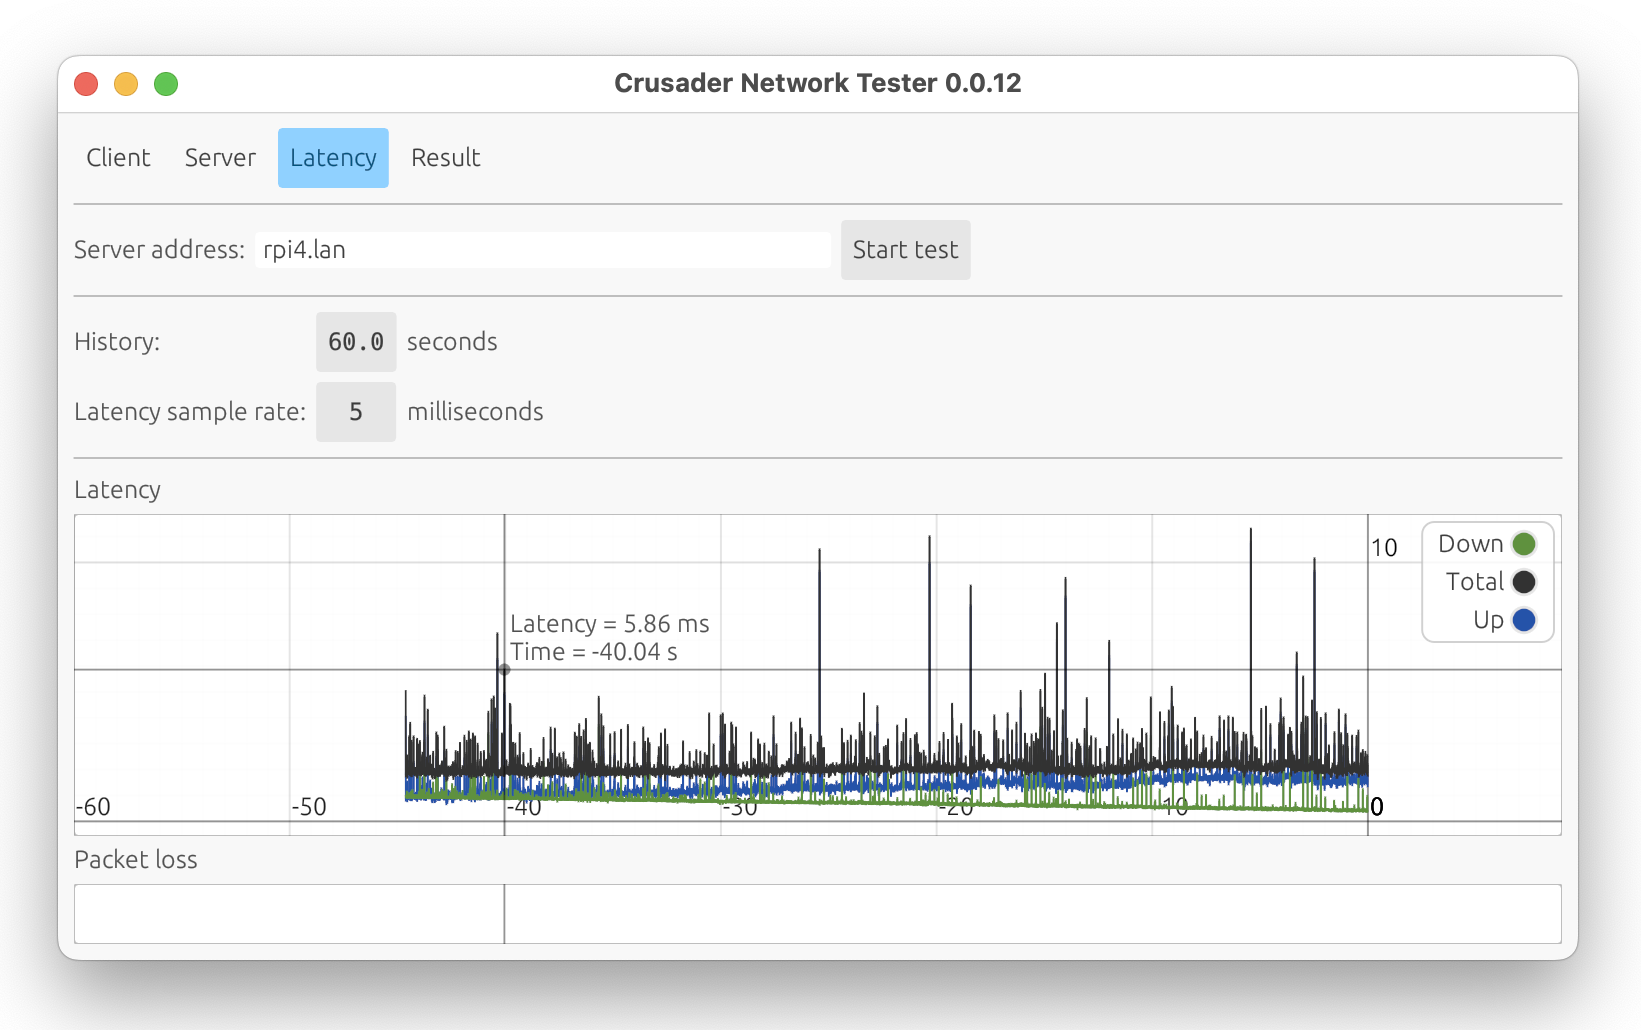
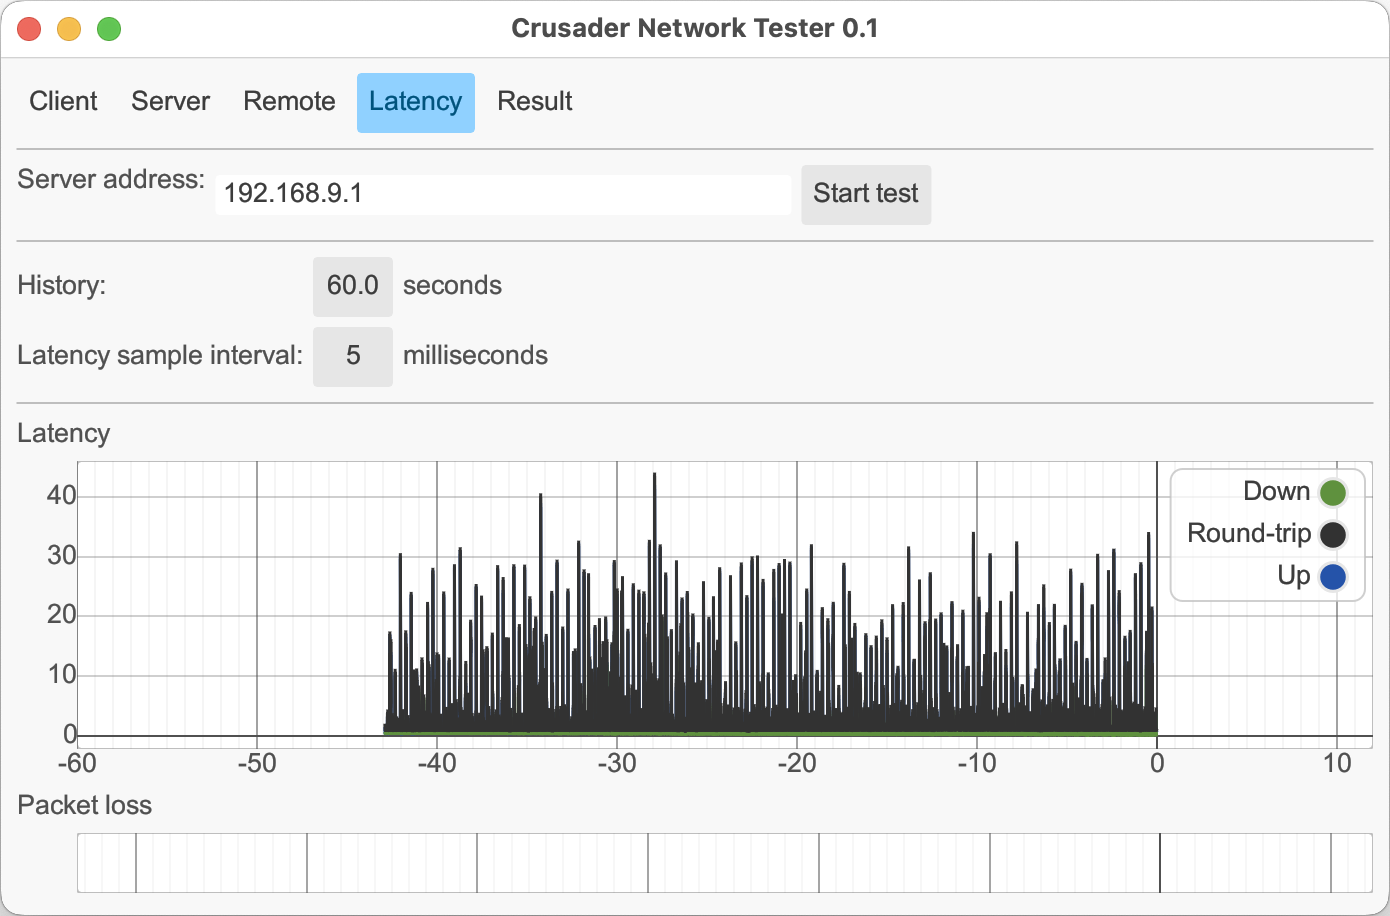
Update README for new (0.1.0) screenshots; Update README and CHANGELOG to pass markdownlint with minimal warnings

diff --git a/README.md b/README.md
@@ -11,19 +11,21 @@ The **Crusader Network Tester** measures network rates and latency
 in the presence of upload and download traffic.
 It also incorporates a continuous latency tester for
 monitoring background responsiveness.
-It produces plots of the traffic rates,
-latency and packet loss.
-Crusader only uses TCP and UDP ports 35481 for its tests. Local server discovery uses UDP port 35483. The remote web server uses TCP port 35482.
+It produces plots of the traffic rates, latency and packet loss.
+Crusader uses TCP and UDP ports 35481 (only) for its tests.
+The Remote web server option uses TCP port 35482.
+Local server discovery uses UDP port 35483.
 
 **Pre-built binaries** for Windows, Mac, Linux,
 and Android are available on the
-[Releases](https://github.com/Zoxc/crusader/releases) page. The GUI is not prebuilt for Linux and must be built from source.
+[Releases](https://github.com/Zoxc/crusader/releases) page.
+The GUI is not prebuilt for Linux and must be built from source.
+A **Docker container** for running the server may be found on
+[dockerhub](https://hub.docker.com/r/zoxc/crusader).
 
-A **Docker container** for running the server may be found on [dockerhub](https://hub.docker.com/r/zoxc/crusader).
-
-**Status:** The latest Crusader release is linked at the top.
-  See the [CHANGELOG.md](./CHANGELOG.md)
-  file for details.
+**Status:** The latest Crusader release version is shown above.
+  The pre-built binaries always provide the latest version.
+  See the [CHANGELOG.md](./CHANGELOG.md) file for details.
 
 ## Crusader GUI
 
@@ -35,29 +37,34 @@ a **client** that initiates the test.
 The Crusader GUI incorporates both the server and
 the client and allows you to interact with results.
 To use it, download the proper binary from the
-[Releases](https://github.com/Zoxc/crusader/releases) page
-then open it.
+[Releases](https://github.com/Zoxc/crusader/releases) page.
 
-The window below opens.
+When you open the `crusader-gui` you see this window.
 Enter the address of another computer that's
 running the Crusader server, then click **Start test**.
 When the test is complete, the **Result** tab shows a
 chart like the second image below.
-(An easy way to run the server is to start the Crusader GUI
-on another computer, then choose the **Server** tab.)
+(An easy way to run the server is to download a copy
+of the Crusader GUI
+to another computer, start it, then choose the **Server** tab.)
 
 ![Crusader Client Screenshot](./media/Crusader-Client.png)
 
-The Crusader GUI has four tabs:
+The Crusader GUI has five tabs:
 
 * **Client tab**
-  Runs the Crusader client program. 
+  Runs the Crusader client program.
   The options shown above are described in the
-  [Command-line options](#command-line-options) section.
+  [Command-line options](./#command-line-options) section.
 
 * **Server tab**
   Runs the Crusader server, listening for connections from other clients
 
+* **Remote tab**
+  Starts a webserver (default port 35482).
+  A browser that connects to that port can initiate a test
+  against a remote Crusader server.
+  
 * **Latency tab**
   Continually tests the latency to the selected
   Crusader server until stopped.
@@ -87,7 +94,7 @@ sum of the download plus upload.
 Blue is the (uni-directional) time from the client to the server.
 Green shows the time from the server to the client (one direction).
 Black shows the sum from the client to the server
-and back (bi-directional).
+and back (round-trip time).
 
 * The **Packet Loss** plot has green and blue marks
 that indicate times when packets were lost.
@@ -96,9 +103,9 @@ that indicate times when packets were lost.
 
 ### Server
 
-To host a Crusader server, run this on the _server machine:
+To host a Crusader server, run this on the _server_ machine:
 
-```
+```sh
 crusader serve
 ```
 
@@ -106,15 +113,17 @@ crusader serve
 
 To start a test, run this on the _client machine_:
 
-```
+```sh
 crusader test <server-ip>
 ```
 
 ### Remote
 
-To host a web server allowing remote control of a Crusader client, run this:
+To host a web server allowing remote control of a Crusader client,
+run this command, then connect to
+[http://this-ip-address:35482](http://this-ip-address:38452)
 
-```
+```sh
 crusader remote
 ```
 
@@ -165,47 +174,55 @@ crusader remote
 * **`--plot-height <PIXELS>`**
 * **`--plot-title <PLOT_TITLE>`**
 * **`--latency-peer <LATENCY_PEER>`**
-          Specifies another server (peer) which will
-          also measure the latency to the server independently of the client
+  Specifies the IP address of another Crusader server (peer).
+  During the test, Crusader measures the latency to this peer
+  along with the latency measurements to the client.
 * **`-h, --help`**
           Print help (see a summary with '-h')
-          
+
 ## Building Crusader from source
 
 Use [pre-built binaries](https://github.com/Zoxc/crusader/releases)
 for everyday tests if available.
 
 To develop or debug Crusader, use the commands below
-to build required binaries. Executables will be placed in `src/target/release`
+to build the full set of binaries.
+Executables will be placed in `src/target/release`
 
-### Required dependencies:
-- A Rust and C toolchain.
+### Required dependencies
 
-### Additional GUI dependencies:
+* A Rust and C toolchain.
+
+### Additional dependencies for `crusader-gui`
+
 Development packages for:
-- `fontconfig`
+
+* `fontconfig`
 
 To install these on Ubuntu:
-```
+
+```sh
 sudo apt install libfontconfig1-dev
 ```
 
 ### Building
 
-
 To build the `crusader` command line executable:
+
 ```sh
 cd src
 cargo build -p crusader --release
 ```
 
 To build both command line and GUI executables:
+
 ```sh
 cd src
 cargo build --release
 ```
 
 To build a docker container running the server:
+
 ```sh
 cd docker
 docker build .. -t crusader -f server-static.Dockerfile
@@ -213,21 +230,39 @@ docker build .. -t crusader -f server-static.Dockerfile
 
 ## Troubleshooting
 
+* On macOS, the first time you double-click
+  the pre-built `crusader` or `crusader-gui` icon,
+  the OS requires you to use **System Preferences -> Security**
+  to permit Crusader to run.
+  
 * Crusader requires that TCP and UDP ports 35481 are open for its tests.
   Check that your firewall is letting those ports through.
-
+  Crusader also uses ports 35482 for the remote webserver
+  and port 35483 for discovering other Crusader Servers.
+  
+* The [Releases](https://github.com/Zoxc/crusader/releases) page
+  has pre-built binaries.
+  You can build your own using the instructions above.
+  
 * Create a debug build by using `cargo build`
   (instead of `cargo build --release`).
   Binaries are saved in the _src/target/debug_ directory
 
-* To get the git commit hash of the current checkout,
-  use `git rev-parse --short master`
-
-* I sometimes see this message: 
-`Warning: Load termination timed out. There may be residual untracked traffic in the background.` 
+* Current binaries display the full commit hash in the log files.
+  To get the git commit hash of the current checkout,
+  use `git rev-parse --short master`.
   
-  Should I be concerned? No. That may happen due to the TCP termination being lost or TCP incompatibilities between OSes. It's likely benign if you see throughput and latency drop to idle values after the tests in the graph. 
+* "I sometimes see this message. Should I be concerned?"
+`Warning: Load termination timed out. There may be residual untracked traffic in the background.`
+  
+  No. That may happen due to the TCP termination being lost
+  or TCP incompatibilities between OSes.
+  It's likely benign if you see throughput and latency drop
+  to idle values after the tests in the graph.
 
-* The up and down latency measurement rely on a symmetric stable latency to the server. These values may be wrong if those assumption don't hold on test startup.
+* The up and down latency measurement rely on symmetric stable latency
+measurements to the server.
+These values may be wrong if those assumption don't hold on test startup.
 
-* The up and down latency measurement may slowly get out of sync due to clock drift. Clocks are currently only synchronized on test startup.
+* The up and down latency measurement may slowly get out of sync due to
+clock drift. Clocks are currently only synchronized on test startup.

diff --git a/CHANGELOG.md b/CHANGELOG.md
@@ -10,7 +10,8 @@ This file lists the changes that have occurred since January 2024 in the project
 ## Unreleased
 
 * Added support for local discovery of server and peers using UDP port 35483
-* The `test` command line option `--latency-peer` is renamed to `--latency-peer-server`. A new flag `--latency-peer` will instead search for a local peer.
+* The `test` command line option `--latency-peer` is renamed to `--latency-peer-server`.
+  A new flag `--latency-peer` will instead search for a local peer.
 * Improved error messages
 * Fix date/time display in remote web page
 * Rename the `Latency` tab to `Monitor`
@@ -25,7 +26,8 @@ This file lists the changes that have occurred since January 2024 in the project
 ## 0.1 - 2024-08-21
 
 * Added `crusader remote` command to start a web server listening on port 35482.
-   It allows starting tests on a separate machine and displays the resulting charts in the web page.
+   It allows starting tests on a separate machine and
+   displays the resulting charts in the web page.
 * Use system fonts in GUI
 * Improved error handling and error messages
 * Added `--idle` option to the client to test without traffic
